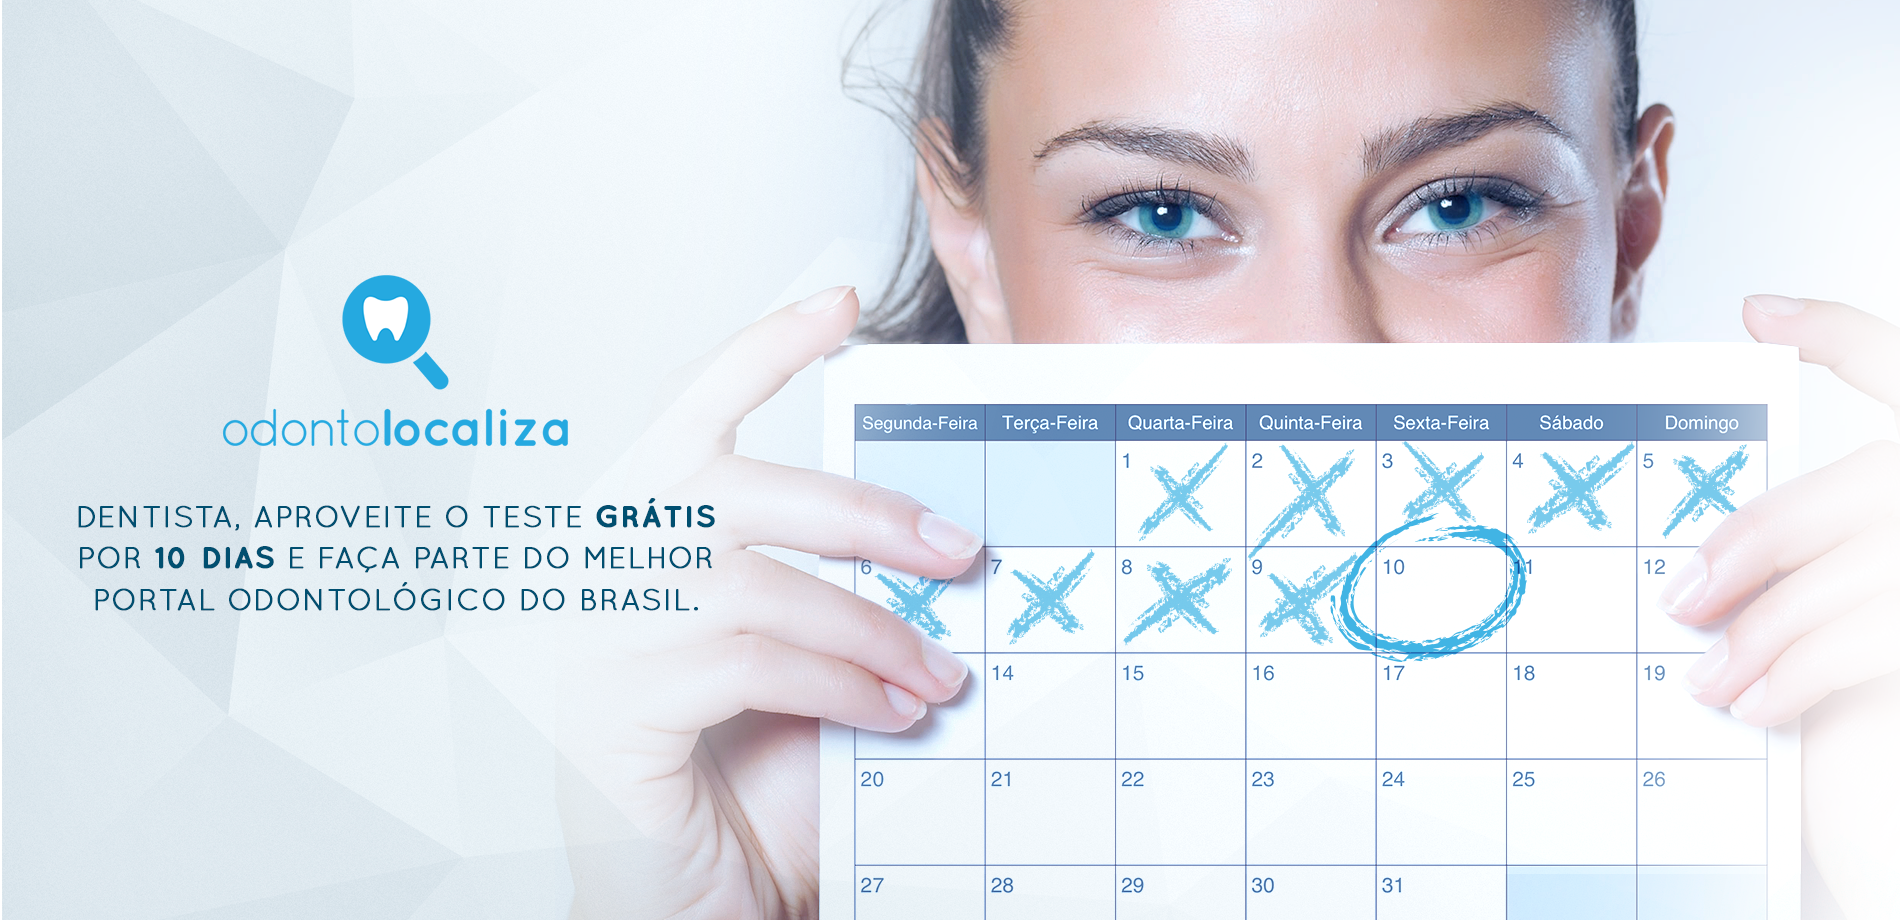
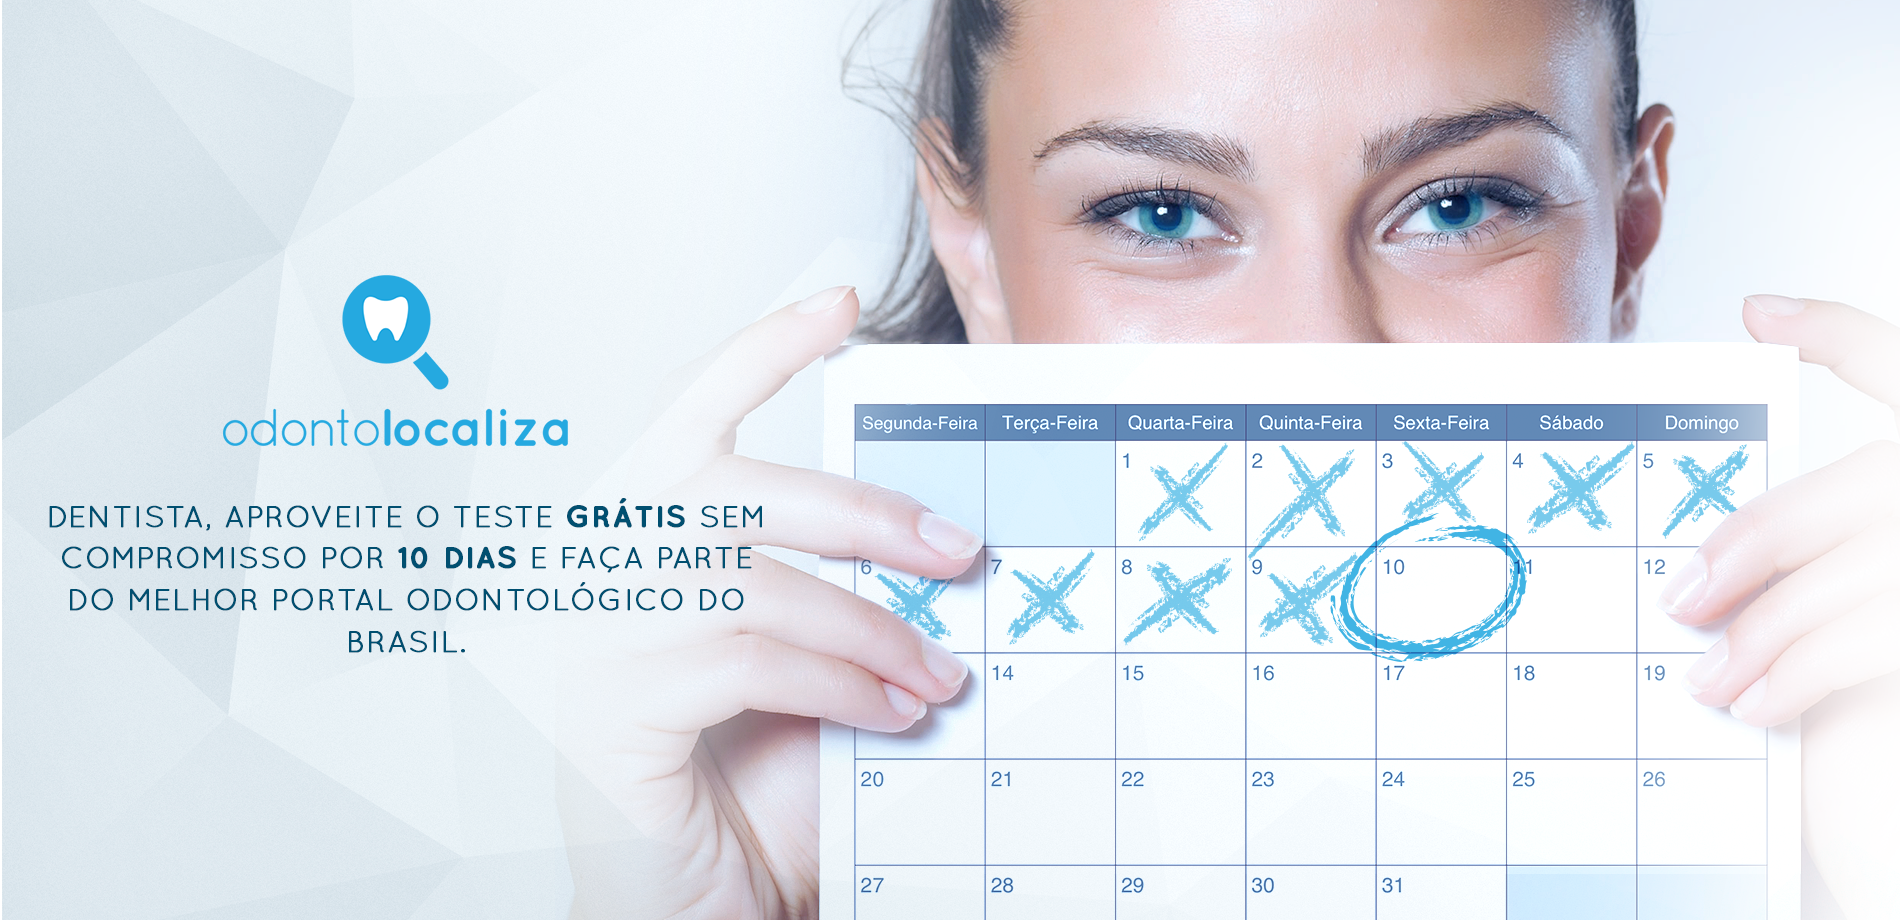
add img da chamada de teste de 10 dias

Changed region(s): [[0.0311, 0.5478, 0.4037, 0.7304]]

diff --git a/storage/framework/views/75e545eec4aa5e1104808d876fbe5fb00f0a3f9b.php b/storage/framework/views/75e545eec4aa5e1104808d876fbe5fb00f0a3f9b.php
@@ -1,0 +1,256 @@
+<?php $__env->startSection('sidebar'); ?>
+<?php echo $__env->make('doctor.menu_adm', array_except(get_defined_vars(), array('__data', '__path')))->render(); ?>
+<?php $__env->stopSection(); ?>
+
+<?php $__env->startSection('content'); ?>
+<!-- /.row -->
+<div class="row">
+    <div class="col-xs-12">
+        <div class="box">
+            <div class="row">
+	            <div class="col-md-12">
+	                <div class="row">
+	                    <div class="col-md-12">
+	                        <div class="col-md-12">
+	                            <div class="row">
+	                                <div class="col-md-6">
+	                                    <h4>Detalhes da Assinatura</h4>
+	                                    <div class="subscription-details">
+	                                        <table class="table table-hover">
+	                                            <tbody>
+	                                            <tr>
+	                                                <td class="text-right">
+	                                                    Validade:
+	                                                </td>
+	                                                <td>
+	                                                    <?php if($user->isExpired()): ?>
+	                                                        <label class="label label-danger">
+	                                                            Expirado em <?php echo e(with(new DateTime($user->expires_at))->format('d/m/Y')); ?>
+
+	                                                        </label>
+	                                                    <?php else: ?>
+	                                                        <label class="label label-success">
+	                                                            Expira em <?php echo e(with(new DateTime($user->expires_at))->format('d/m/Y')); ?>
+
+	                                                        </label>
+	                                                    <?php endif; ?>
+	                                                </td>
+	                                            </tr>
+	                                            <tr>
+	                                                <td class="text-right">Plano:</td>
+	                                                <td>
+	                                                    <label class="label label-primary">
+	                                                        <?php echo e(title_case($subscription->plan_name)); ?> (R$ <?php echo e(number_format(($subscription->price_cents / 100), 2, ',', '.')); ?>)
+	                                                    </label>
+	                                                </td>
+	                                            </tr>
+	                                            <tr>
+	                                                <td class="text-right">Estado:</td>
+	                                                <td>
+	                                                    <?php if($user->isSuspended()): ?>
+	                                                        <label class="label label-danger">
+	                                                            Suspensa
+	                                                        </label>
+	                                                    <?php else: ?>
+	                                                        <label class="label label-success">
+	                                                            Ativa
+	                                                        </label>
+	                                                    <?php endif; ?>
+	                                                </td>
+	                                            </tr>
+
+	                                            </tbody>
+	                                        </table>
+	                                    </div>
+	                                </div>
+	                                <div class="col-md-6">
+	                                    <h4>Pagamentos Recorrentes</h4>
+	                                    Se deseja optar pela praticidade dos pagamentos automáticos, basta selecionar a opção <strong>"Usar este cartão de crédito em cobranças futuras"</strong> ao pagar sua próxima fatura.
+	                                </div>
+	                            </div>
+	                            <div class="row">
+	                                <div class="col-md-6">
+	                                    <h4>Alterar Plano</h4>
+
+	                                    <form role="form" class="form-sm form-horizontal" method="post" action="<?php echo e(route('subscription.update', [ 'id' =>$user->id ])); ?>">
+	                                        <input type="hidden" name="_method" value="PUT">
+	                                        <input type="hidden" name="_token" value="<?php echo e(csrf_token()); ?>">
+	                                        <input type="hidden" name="action" value="plan">
+
+	                                        <div class="col-md-9">
+	                                            <div class="form-group">
+	                                                <select name="plan" class="form-control">
+	                                                	<?php $__currentLoopData = $plans; $__env->addLoop($__currentLoopData); foreach($__currentLoopData as $plan): $__env->incrementLoopIndices(); $loop = $__env->getFirstLoop(); ?>
+		                                                    <?php if($user->subscription_plan != $plan->identifier): ?>
+		                                                        <option value="<?php echo e($plan->identifier); ?>"><?php echo e(title_case($plan->name)); ?> (R$ <?php echo e(number_format(($plan->price), 2, ',', '.')); ?>)</option>
+		                                                    <?php endif; ?>
+	                                                    <?php endforeach; $__env->popLoop(); $loop = $__env->getFirstLoop(); ?>
+	                                                </select>
+	                                            </div>
+	                                        </div>
+	                                        <div class="col-md-3">
+	                                            <div class="form-group text-right">
+	                                                <button class="btn btn-primary" type="submit">Confirmar</button>
+	                                            </div>
+	                                        </div>
+	                                    </form>
+	                                </div>
+	                                <div class="col-md-6">
+	                                    <h4><?php if( $user->isSuspended() ): ?> Reativar Assinatura <?php else: ?> Suspender Assinatura <?php endif; ?></h4>
+	                                    <form role="form" class="form-sm form-horizontal" method="post" action="<?php echo e(route('subscription.update', [ 'id' =>$user->id ])); ?>">
+	                                        <input type="hidden" name="_method" value="PUT">
+	                                        <input type="hidden" name="_token" value="<?php echo e(csrf_token()); ?>">
+	                                        <?php if($user->isSuspended()): ?>
+	                                            <input type="hidden" name="action" value="activate">
+	                                        <?php else: ?>
+	                                            <input type="hidden" name="action" value="suspend">
+	                                        <?php endif; ?>
+
+	                                        <div class="row">
+	                                            <div class="input-group">
+	                                                <div class="col-md-9">
+	                                                    <?php if($user->isSuspended()): ?>
+	                                                        Caso a assinatura ainda não tenha expirado, uma nova fatura só será gerada próximo a data de expiração.
+	                                                    <?php else: ?>
+	                                                        Uma assinatura suspensa continuará válida até a data de expiração, porém novas faturas não serão geradas.
+	                                                    <?php endif; ?>
+	                                                </div>
+	                                                <div class="col-md-3">
+	                                                    <?php if($user->isSuspended()): ?>
+	                                                        <button class="btn btn-success" type="submit">Reativar</button>
+	                                                    <?php else: ?>
+	                                                        <button class="btn btn-danger" type="submit">Suspender</button>
+	                                                    <?php endif; ?>
+	                                                </div>
+	                                            </div>
+	                                        </div>
+	                                    </form>
+	                                </div>
+	                            </div>
+	                        </div>
+	                        <div class="row">
+	                            <div class="col-md-12">&nbsp;</div>
+	                        </div>
+	                        
+	                        <div class="row"><hr></div>
+
+	                        <div class="row">
+	                            <div class="col-md-12">
+	                                <div class="col-md-12">
+	                                    <h4>Faturas Recentes:</h4>
+	                                </div>
+	                                <div class="col-md-12">
+	                                    <?php if(count($subscription->recent_invoices)): ?>
+	                                        <table class="table table-striped">
+	                                            <thead>
+	                                            <tr>
+	                                                <th>Vencimento</th>
+	                                                <th>Valor</th>
+	                                                <th>Status</th>
+	                                                <th class="text-right">Ações</th>
+	                                            </tr>
+	                                            </thead>
+	                                            <tbody>
+	                                            <?php $__currentLoopData = $subscription->recent_invoices; $__env->addLoop($__currentLoopData); foreach($__currentLoopData as $inv): $__env->incrementLoopIndices(); $loop = $__env->getFirstLoop(); ?>
+	                                                <tr>
+	                                                    <td><?php echo e(with(new DateTime($inv->due_date))->format('d/m/Y')); ?></td>
+	                                                    <td><?php echo e($inv->total); ?></td>
+	                                                    <td>
+	                                                        <?php if($inv->status == 'draft'): ?>
+	                                                            Rascunho
+	                                                        <?php elseif($inv->status == 'pending'): ?>
+	                                                            Pendente
+	                                                        <?php elseif($inv->status == 'partilly_paid'): ?>
+	                                                            Parcialmente Paga
+	                                                        <?php elseif($inv->status == 'paid'): ?>
+	                                                            Paga
+	                                                        <?php elseif($inv->status == 'canceled'): ?>
+	                                                            Cancelada
+	                                                        <?php elseif($inv->status == 'refunded'): ?>
+	                                                            Reembolsada
+	                                                        <?php elseif($inv->status == 'expired'): ?>
+	                                                            Expirada
+	                                                        <?php else: ?>
+	                                                            <?php echo e($inv->status); ?>
+
+	                                                        <?php endif; ?>
+	                                                    </td>
+	                                                    <td class="text-right">
+	                                                        <?php if($inv->status == 'draft'): ?>
+	                                                            <a class="btn btn-sm btn-warning" target="_blank" href="<?php echo e($inv->secure_url); ?>">Visualizar</a>
+	                                                        <?php elseif($inv->status == 'pending'): ?>
+	                                                            <a class="btn btn-sm btn-warning" target="_blank" href="<?php echo e($inv->secure_url); ?>">Efetuar Pagamento</a>
+	                                                        <?php elseif($inv->status == 'partilly_paid'): ?>
+	                                                            <a class="btn btn-sm btn-warning" target="_blank" href="<?php echo e($inv->secure_url); ?>">Paga Parcialmente</a>
+	                                                        <?php elseif($inv->status == 'paid'): ?>
+	                                                            <a class="btn btn-sm btn-success" target="_blank" href="<?php echo e($inv->secure_url); ?>">Comprovante</a>
+	                                                        <?php elseif($inv->status == 'canceled'): ?>
+	                                                            <a class="btn btn-sm btn-default" target="_blank" href="<?php echo e($inv->secure_url); ?>">Visualizar</a>
+	                                                        <?php elseif($inv->status == 'refunded'): ?>
+	                                                            <a class="btn btn-sm btn-success" target="_blank" href="<?php echo e($inv->secure_url); ?>">Comprovante</a>
+	                                                        <?php elseif($inv->status == 'expired'): ?>
+	                                                            <a class="btn btn-sm btn-danger" target="_blank" href="<?php echo e($inv->secure_url); ?>">Expirada</a>
+	                                                        <?php else: ?>
+	                                                            <?php echo e($inv->status); ?>
+
+	                                                        <?php endif; ?>
+
+	                                                    </td>
+
+	                                                </tr>
+	                                            <?php endforeach; $__env->popLoop(); $loop = $__env->getFirstLoop(); ?>
+	                                            </tbody>
+	                                        </table>
+	                                    <?php else: ?>
+	                                        <div class="col-md-12">
+	                                            Nenhuma Fatura Recente
+	                                        </div>
+	                                    <?php endif; ?>
+	                                </div>
+	                            </div>
+
+	                        </div>
+
+	                        <div class="row"><hr></div>
+
+	                        <div class="row">
+	                            <div class="col-md-12">
+	                                <div class="col-md-12">
+	                                    <h4>Histórico da Assinatura:</h4>
+	                                </div>
+	                                <div class="col-md-12">
+	                                    <?php if(count($subscription->logs)): ?>
+	                                        <table class="table table-striped">
+	                                            <thead>
+	                                            <tr>
+	                                                <th>Data</th>
+	                                                <th>Descrição</th>
+	                                                <th>Detalhes</th>
+	                                            </tr>
+	                                            </thead>
+	                                            <tbody>
+	                                            <?php $__currentLoopData = $subscription->logs; $__env->addLoop($__currentLoopData); foreach($__currentLoopData as $log): $__env->incrementLoopIndices(); $loop = $__env->getFirstLoop(); ?>
+	                                                <tr>
+	                                                    <td><?php echo e(with(new DateTime($log->created_at))->format('d/m/Y H:i:s')); ?></td>
+	                                                    <td><?php echo e($log->description); ?></td>
+	                                                    <td><?php echo e($log->notes); ?></td>
+	                                                </tr>
+	                                            <?php endforeach; $__env->popLoop(); $loop = $__env->getFirstLoop(); ?>
+	                                            </tbody>
+	                                        </table>
+	                                    <?php else: ?>
+	                                        Nenhuma movimentação recente.
+	                                    <?php endif; ?>
+	                                </div>
+	                            </div>
+	                        </div>
+	                    </div>
+	                </div>
+	            </div>
+	        </div>
+        </div>
+        <!-- /.box -->
+    </div>
+</div>
+<?php $__env->stopSection(); ?>
+<?php echo $__env->make('structures.admin_template', array_except(get_defined_vars(), array('__data', '__path')))->render(); ?>

diff --git a/app/Http/Controllers/Doctor/PaymentController.php b/app/Http/Controllers/Doctor/PaymentController.php
@@ -25,11 +25,11 @@ class PaymentController extends Controller
       $plans = $this->plan->all(); 
       $subscription = $this->doctor->findOrFail($user->id)->loadSubscription();
   
-      // if ($subscription) {
-          // return view('doctor.billings.subscription.edit', compact('subscription','page_title','guard','user','plans'));
-      // } else {
+      if ($subscription) {
+          return view('doctor.billings.subscription.edit', compact('subscription','page_title','guard','user','plans'));
+      } else {
           return view('doctor.billings.subscription.create', compact('page_title','plans','guard'));
-      // }
+      }
     }
 
     public function store(Request $request)

diff --git a/resources/views/doctor/billings/subscription/create.blade.php b/resources/views/doctor/billings/subscription/create.blade.php
@@ -28,7 +28,7 @@
                             APROVEITE O TESTE <strong class="blue-light">GRÁTIS POR 10 DIAS</strong>. 
                         </h4>
                         <h4>
-                            ATIVE SEU PLANO APÓS O PERÍODO DE TESTE PARA FAZER PARTE DO MELHOR PORTAL ODONTOLÓGICO DO BRASIL.
+                            ATIVE SEU PLANO APÓS O PERÍODO DE TESTE, PARA FAZER PARTE DO MELHOR PORTAL ODONTOLÓGICO DO BRASIL.
                         </h4>
                     </div>
                     <div class="col-md-12">
